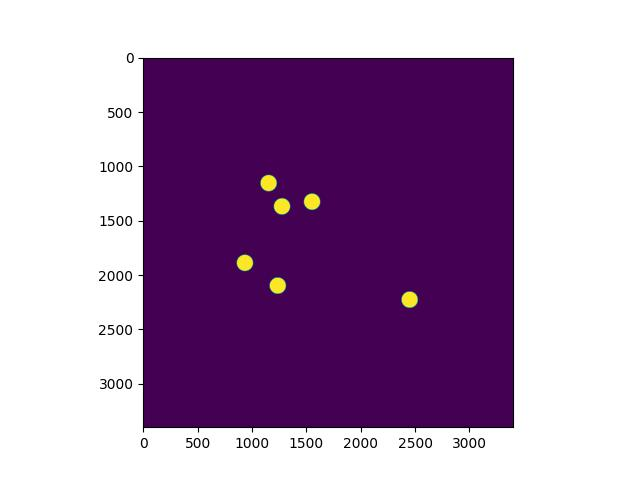
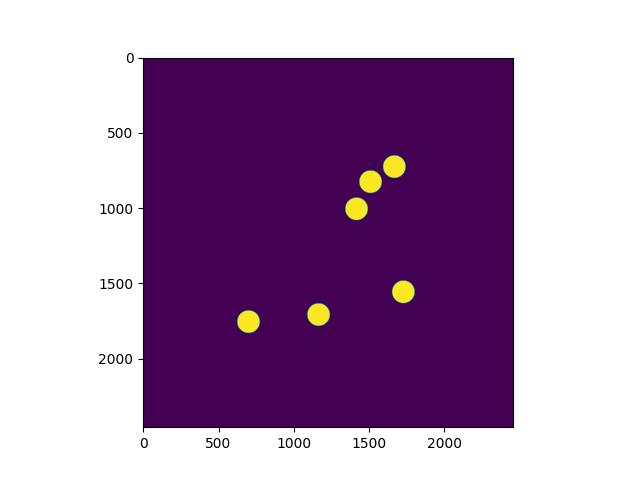
cleaning

diff --git a/pipeline/symbreakanneal.py b/pipeline/symbreakanneal.py
@@ -2,31 +2,29 @@ import pandas as pd
 import numpy as np
 import matplotlib.pyplot as plt
 from tqdm import tqdm
-from scipy import ndimage
 import pickle
 import os
-from PIL import Image
 import sklearn
 from pipeline.symbreak import SymBreak
 
 class SymBreakAnneal(SymBreak):
     def __init__(self,
-        data_path = 'data/smaller_example_coords.csv',
+        data_path = None,
         save_path = "results/",
         save_plots = True,
         pad = 700,
         org_rad = 75,
         org_pad = 25,
         snapshot_step = 100,
-        min_dist = 75 + 10,
+        min_dist = 75 + 5,
         c_to_c_dist = 2*75+2*1,
         objective = "min",
         lmbda = None,
         # seq gen configs
         n_init_orgs = 1, 
         n_total_orgs = 6,
-        n_search = 3,
-        sample_mask_size = 2000, 
+        n_search = 10,
+        mask_size = 1300, 
         # sim anneal configs
         niter = 2000,
         move_len = 80,
@@ -45,7 +43,6 @@ class SymBreakAnneal(SymBreak):
             model_path = model_path,
             scaler_path = scaler_path
         )
-        self.data_path = data_path
         self.save_path = save_path
         self.save_plots = save_plots
         self.pad = pad
@@ -60,7 +57,7 @@ class SymBreakAnneal(SymBreak):
         self.n_init_orgs = n_init_orgs 
         self.n_total_orgs = n_total_orgs
         self.n_search = n_search
-        self.sample_mask_size = sample_mask_size 
+        self.mask_size = mask_size 
         # sim anneal configs
         self.niter = niter
         self.move_len = move_len
@@ -76,57 +73,70 @@ class SymBreakAnneal(SymBreak):
         self.model = loaded_model
         self.scaler = loaded_scaler
 
-        centroids = pd.read_csv(self.data_path, header=None).values.astype(int)
-        self.centroids = self.shift(centroids)
+        self.centroids = None
+        if data_path:
+            centroids = pd.read_csv(self.data_path, header=None).values.astype(int)
+            self.centroids = self.shift(centroids).tolist()
+            self.mask_size = np.max(centroids) + self.pad
 
-    def sim_anneal(self, im, centroids):
+    def sim_anneal(self, centroids = None):
+        if centroids: # sample has been generated
+            self.centroids = centroids.tolist()
+            self.mask_size = np.max(centroids) + self.pad
+        else: # coordinates have been provided in class init
+            assert(self.centroids is not None)
+            centroids = self.centroids
+
+        print("Annealing...")
         #print("Starting simulated annealing...")
-        log = []
+        
+        #mask = self.make_mask(centroids)
+        curr_score, preds, feats = self.evaluate(centroids)
 
-        curr_score, preds, feats = self.evaluate(im, centroids)
-        log.append([preds, feats])
-
-        for i in tqdm(range(self.niter)):
+        for t in tqdm(range(self.niter)):
             # get candidate perturbation
-            new_im, new_centroids, sim_score, preds, newfeats = self.candidate(im, centroids, i)
+            new_centroids, sim_score, preds, newfeats = self.candidate(centroids, t)
             
             # determine random acceptance threshold
             p = np.random.uniform(0,1)
-            p_perturb = self.random_perturb*self.perturb_decay**(i+1)
+            p_perturb = self.random_perturb*self.perturb_decay**(t+1)
 
             # accept if good score or if passes threshold
             if  sim_score > curr_score or p < p_perturb:
-                im, centroids, curr_score, feats = new_im, new_centroids, sim_score, newfeats
+                centroids, curr_score, feats = new_centroids, sim_score, newfeats
 
-            log.append([preds, feats])
-            #wandb.log({"curr_score": curr_score})
-            if i % self.snapshot_step == 0:
-                name = "anneal_step_%d" % i
-                #wandb.log({name: wandb.Image(im.astype(np.uint8))})
-        return im, centroids, log
+            # log images for debugging
+            if self.save_plots and t % 20 == 0:
+                mask = self.make_mask(centroids)
+                im=self.make_pattern(mask,centroids, preds)
+                plt.imshow(im)
+                plt.colorbar()
+                pth = os.path.join(self.save_path, f"annealed_pattern_step_{t}.jpeg")
+                plt.savefig(pth)
+                plt.close("all")
 
-    def candidate(self, image, centers, ix):
-        test_img = image.copy()
+        mask = self.make_mask(centroids)
+        im = self.make_pattern(mask, centroids, preds)
+        if self.save_plots:
+            plt.imshow(im)
+            plt.colorbar()
+            pth = os.path.join(self.save_path, "annealed_pattern.jpeg")
+            plt.savefig(pth)
+            plt.close("all")
+
+        return centroids
+
+    def candidate(self, centers, ix):
         test_centers = centers.copy()
-        im_size = len(image)
-        assert(self.sample_mask_size < im_size)
         
-        nx, ny, ix = self.random_move(test_centers, im_size, ix)
-
-        old_x, old_y = test_centers[ix]
-        # erase
-        test_img = self.circle(old_x, old_y, test_img, self.org_rad, fill=True, fillVal=0)
-        # fill new
-        test_img = self.circle(nx, ny, test_img, self.org_rad, fill=True)
-        #test_img[old_x-75:old_x+75, old_y-75:old_y+75] = 50
-        #test_img[nx-75:nx+75, ny-75:ny+75] = 255
+        nx, ny, ix = self.random_move(test_centers, ix) #im_size,
 
         test_centers[ix] = (nx, ny)
-        sim_score, preds, newfeats = self.evaluate(test_img, test_centers)
+        sim_score, preds, newfeats = self.evaluate(test_centers)
         
-        return test_img, test_centers, sim_score, preds, newfeats
+        return test_centers, sim_score, preds, newfeats
 
-    def random_move(self, centers, im_size, ix):
+    def random_move(self, centers, ix): #im_size,
         found_valid_move = False
         newx, newy, random_index = 0, 0, 0
         
@@ -152,13 +162,13 @@ class SymBreakAnneal(SymBreak):
             else:
                 nbors = centers[:random_index] + centers[random_index+1:]
             
-            found_valid_move = self.validate(newx, newy, nbors, im_size)
+            found_valid_move = self.validate(newx, newy, nbors)
         return newx, newy, random_index
 
-    def validate(self, cx, cy, centroids, im_size):
+    def validate(self, cx, cy, centroids):
         # check if out of bounds   
-        cxbool = self.out_of_bounds_check(cx, im_size)
-        cybool = self.out_of_bounds_check(cy, im_size)
+        cxbool = self.out_of_bounds_check(cx)
+        cybool = self.out_of_bounds_check(cy)
         
         # check centroid to centroid distance
         rep = np.tile(np.array([cx, cy]).reshape(-1,2), [len(centroids), 1])
@@ -170,31 +180,16 @@ class SymBreakAnneal(SymBreak):
 
         return check
 
-    def out_of_bounds_check(self, coord, im_size):
-        if (coord < self.min_dist) or (coord > im_size - self.min_dist):
+    def out_of_bounds_check(self, coord):
+        if (coord < self.min_dist) or (coord > self.mask_size - self.min_dist):
             return False
         else:
             return True
-        
-    """ def get_weights(self, arr, weights):
-        if weights == "uniform":
-            n = len(arr)
-            return [1/n]*len(arr)
-        elif weights == "exponential":
-            phiArr = np.exp(-1*arr)
-            weights = phiArr / np.sum(phiArr)
-        else:
-            maxVal, minVal = np.max(arr), np.min(arr)
-            phiArr = -1*arr+minVal+maxVal
-            weights = phiArr / np.sum(phiArr)
-            return weights """
 
-    def evaluate(self, im_pattern, centroids):
-        new_feats = []
-
-        feats = self.extract_features(im_pattern, centroids, messages=False)
-
-        feats_ixs = np.array([0,1,1,0]).astype(np.bool8)
+    def evaluate(self, centroids):
+        #new_feats = []
+        mask = np.zeros((self.mask_size, self.mask_size))
+        feats = self.extract_features(mask, centroids, messages=False)
         X = self.scaler.transform(feats)
         preds = self.model.predict(X)
 
@@ -211,11 +206,10 @@ class SymBreakAnneal(SymBreak):
             assert(lmbda != None)
             return np.mean(preds) + lmbda*np.min(preds)
         
-
-    def sample_pattern(self, save_samples=False):
-        print("Sampling a pattern...")
+    def sample_pattern(self, ):
+        print("Sampling...")
         # create empty pattern
-        mask = np.zeros((self.sample_mask_size, self.sample_mask_size))
+        mask = np.zeros((self.mask_size, self.mask_size))
         centroids = []
 
         # Initialize mask
@@ -236,7 +230,7 @@ class SymBreakAnneal(SymBreak):
                 x, y = self.random_location(mask)
                 test_cents.append((x,y))
                 test_mask = self.circle(x,y, test_mask, self.org_rad, fill=True)
-                score, _, _ = self.evaluate(test_mask, test_cents)
+                score, _, _ = self.evaluate(test_cents)
                 sim_organoids.append((score, x, y))
             
             # select best simulated organoid
@@ -245,34 +239,16 @@ class SymBreakAnneal(SymBreak):
             mask = self.circle(newx, newy, mask, self.org_rad, fill = True)
             centroids.append((newx, newy))
 
-        # add the pad at the end
-        xmin, xmax = np.min(centroids[:, 0]), np.max(centroids[:, 0])
-        x_mean = (xmax-xmin)//2
-        ymin, ymax = np.min(centroids[:, 1]), np.max(centroids[:, 1])
-        y_mean = (ymax-ymin)//2
-
-        im_mean = self.sample_mask_size//2
-        x_shift = im_mean - x_mean
-        y_shift = im_mean - y_mean
-
-        gen_centroids = np.array(centroids) - np.array([x_shift, y_shift])
-        if self.save_plots:
-            plt.scatter(gen_centroids[:, 0], gen_centroids[:, 1])
-            pth = os.path.join(self.save_path, "sampled_scatter.jpeg")
-            plt.savefig(pth) 
-
-        gen_pattern = np.pad(mask, self.pad)
-        #gen_centroids = np.array(centroids) + self.pad
+        centroids = np.array(centroids)
+        gen_centroids = self.shift(centroids)
 
         if self.save_plots:
+            mask = self.make_mask(gen_centroids)
+            gen_pattern = self.make_pattern(mask, gen_centroids)
             plt.imshow(gen_pattern)
             pth = os.path.join(self.save_path, "sampled_pattern.jpeg")
-            plt.savefig(pth) 
-
-        if save_samples:
-            gen_centroids
-
-
+            plt.savefig(pth)
+            plt.close("all")
 
         return gen_centroids
 
@@ -280,10 +256,10 @@ class SymBreakAnneal(SymBreak):
         found_valid = False
         
         while not found_valid:
-            x, y = np.random.choice(self.sample_mask_size, 2)
+            x, y = np.random.choice(self.mask_size, 2)
             # ensure organoid is at least 2 pads worth away from wall and organoids
-            if (x > self.min_dist and x < self.sample_mask_size-self.min_dist and 
-                y > self.min_dist and y < self.sample_mask_size-self.min_dist):
+            if (x > self.min_dist and x < self.mask_size-self.min_dist and 
+                y > self.min_dist and y < self.mask_size-self.min_dist):
                 bool_mat = self.circle(x, y, image, self.min_dist)
                 
                 # check if overlapping with other organoids

diff --git a/pipeline/symbreak.py b/pipeline/symbreak.py
@@ -2,10 +2,10 @@ import pandas as pd
 import numpy as np
 import matplotlib.pyplot as plt
 from tqdm import tqdm
-from scipy import ndimage
+from cupyx.scipy import ndimage
+import cupy as cp
 import pickle
 import os
-from PIL import Image
 import sklearn
 
 class SymBreak:
@@ -29,8 +29,9 @@ class SymBreak:
         loaded_model = pickle.load(open(self.model_path, 'rb'))
         loaded_scaler = pickle.load(open(self.scaler_path,'rb'))
 
-        centroids = pd.read_csv(self.data_path, header=None).values.astype(int)
-        self.centroids = self.shift(centroids)
+        if data_path:
+            centroids = pd.read_csv(self.data_path, header=None).values.astype(int)
+            self.centroids = self.shift(centroids)
 
         self.model = loaded_model
         self.scaler = loaded_scaler
@@ -73,10 +74,14 @@ class SymBreak:
             # Gaussian blur
             im_blurs = []
             sigmas = [200, 700]
-            for sigma in tqdm(sigmas):
-                blur = ndimage.gaussian_filter(im, sigma=sigma) #, mode="constant"
+            im = cp.array(im)
+            #im = cp.array(im)
+            for sigma in sigmas:
+                blur = ndimage.gaussian_filter(im, sigma=sigma).get() #, mode="constant"
                 im_blurs.append(blur)
-        
+
+            im = im.get()
+
             # get features of organoids
             grad_rho200 = self.compute_feats(im, im_blurs[0], centroids, rho = False)
             rho700 = self.compute_feats(im, im_blurs[1], centroids, grad_rho = False)
@@ -131,7 +136,7 @@ class SymBreak:
         return mask
 
     def shift(self, centroids):
-        cmin, cmax = np.min(centroids), np.max(centroids)
+        cmin = np.min(centroids)
         diff = max(0, self.pad - cmin)
         centroids += diff
         return centroids

diff --git a/example_annealing.py b/example_annealing.py
@@ -1,16 +1,13 @@
 from pipeline.symbreakanneal import SymBreakAnneal
 
 pipeline = SymBreakAnneal(
-        data_path = 'data/example_coords.csv',
         save_path = "results/",
-        save_plots = True
+        save_plots = True,
+        n_total_orgs = 6
     )
 
-    # image generation
-im, centroids = pipeline.sample_pattern(save_samples = True)
+# sample coordinates
+centroids = pipeline.sample_pattern()
 
 # sim annealing
-#new_im, new_centroids, log = pipeline.sim_anneal(im, centroids.tolist())
-
-# save larger files manually in run
-#pickle.dump(log, open(os.path.join("results/","anneal_log.txt"), "wb"))
+optim_centroids = pipeline.sim_anneal(centroids)
